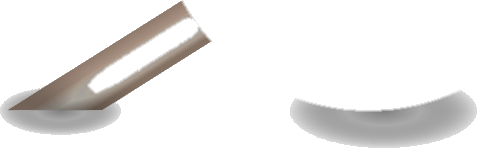
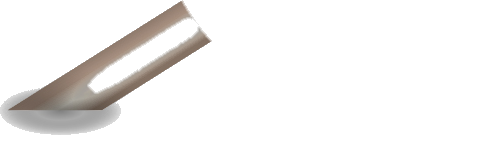
fixing pin7

Changed region(s): [[0.587, 0.6216, 1.0, 1.0]]

diff --git a/Tools/PinDebugger/Program.cs b/Tools/PinDebugger/Program.cs
@@ -1,4 +1,4 @@
-// Pin geometry debug annotator + shadow cleaner.
+// Pin geometry debug annotator + shadow cleaner + join finder.
 // Run from the project root.
 //
 // Annotate mode (default):
@@ -11,24 +11,34 @@
 //   each shaft PNG by keeping only the connected component that contains
 //   local_tip.  Output files: pin_XX_shaft_clean.png + pin_XX_shaft_lit_clean.png
 //   Copy them over the originals once you have verified the results.
+//
+// Find-join mode:
+//   dotnet run --project Tools\PinDebugger -- --find-join [partsDir [cleanedDir]]
+//   For each shaft, uses native_angle_deg to project all non-transparent pixels
+//   onto the shaft axis and reports the centroid of the farthest 3% as the
+//   suggested new local_join.  Use the cleaned versions if available.
+//   Outputs a JSON patch snippet ready to paste into pin_part_geometry.json.
 
 using System.Drawing;
 using System.Drawing.Drawing2D;
 using System.Drawing.Imaging;
+using System.Runtime.InteropServices;
 using System.Text;
 using System.Text.Json;
 
-bool cleanMode = args.Any(a => a == "--clean");
-var  posArgs   = args.Where(a => a != "--clean").ToArray();
+bool cleanMode    = args.Any(a => a == "--clean");
+bool findJoinMode = args.Any(a => a == "--find-join");
+var  posArgs      = args.Where(a => !a.StartsWith("--")).ToArray();
 
-var partsDir  = posArgs.Length > 0 ? posArgs[0] : Path.Combine("Images&Content", "Pins_v2", "parts");
-var outputDir = posArgs.Length > 1 ? posArgs[1]
-    : cleanMode
-        ? Path.Combine("Tools", "PinDebugger", "cleaned")
-        : Path.Combine("Tools", "PinDebugger", "output");
+var partsDir   = posArgs.Length > 0 ? posArgs[0] : Path.Combine("Images&Content", "Pins_v2", "parts");
+var cleanedDir = Path.Combine("Tools", "PinDebugger", "cleaned"); // always checked for cleaned versions
+var outputDir  = posArgs.Length > 1 ? posArgs[1]
+    : cleanMode    ? cleanedDir
+    : findJoinMode ? Path.Combine("Tools", "PinDebugger", "find-join")
+    : Path.Combine("Tools", "PinDebugger", "output_v2");
 
 Directory.CreateDirectory(outputDir);
-Console.WriteLine($"Mode   : {(cleanMode ? "clean (remove disconnected shadow islands)" : "annotate")}");
+Console.WriteLine($"Mode   : {(cleanMode ? "clean" : findJoinMode ? "find-join" : "annotate")}");
 Console.WriteLine($"Parts  : {partsDir}");
 Console.WriteLine($"Output : {outputDir}");
 Console.WriteLine();
@@ -43,15 +53,20 @@ foreach (var pinProp in doc.RootElement.EnumerateObject())
 {
     var pinId = pinProp.Name;
     var pin   = pinProp.Value;
-    Console.WriteLine($"  {pinId}");
 
     if (cleanMode)
     {
+        Console.WriteLine($"  {pinId}");
         CleanShaft(pin, pinId, partsDir, outputDir, litSuffix: false);
         CleanShaft(pin, pinId, partsDir, outputDir, litSuffix: true);
     }
+    else if (findJoinMode)
+    {
+        FindJoin(pin, pinId, partsDir, cleanedDir);
+    }
     else
     {
+        Console.WriteLine($"  {pinId}");
         AnnotateHead (pin, pinId, partsDir, outputDir);
         AnnotateShaft(pin, pinId, partsDir, outputDir, litSuffix: false);
         AnnotateShaft(pin, pinId, partsDir, outputDir, litSuffix: true);
@@ -177,6 +192,96 @@ static Bitmap KeepConnectedComponent(Bitmap src, int seedX, int seedY)
     System.Runtime.InteropServices.Marshal.Copy(outPx, 0, dstData.Scan0, outPx.Length);
     result.UnlockBits(dstData);
     return result;
+}
+
+// ── Find-join mode ────────────────────────────────────────────────────────────
+
+/// <summary>
+/// Uses native_angle_deg to project all non-transparent shaft pixels onto the
+/// shaft axis and reports the centroid of the farthest 3% as the suggested
+/// new local_join.  Uses the cleaned shaft version if available.
+/// </summary>
+static void FindJoin(JsonElement pin, string pinId, string partsDir, string cleanedDir)
+{
+    var baseFile = pin.GetProperty("shaft_file").GetString()!;
+    var shaft    = pin.GetProperty("shaft");
+    var tip      = ParsePoint(shaft.GetProperty("local_tip"));
+    var curJoin  = ParsePoint(shaft.GetProperty("local_join"));
+    var curNativeLen = shaft.GetProperty("native_length").GetDouble();
+    var angleDeg = shaft.GetProperty("native_angle_deg").GetDouble();
+
+    // Axis unit vector from native_angle_deg.
+    // Convention (matches GetAngleDegrees in the app): 0° = up (–Y), 90° = right (+X).
+    double rad  = angleDeg * Math.PI / 180.0;
+    float  axDx = (float)Math.Sin(rad);
+    float  axDy = (float)-Math.Cos(rad); // screen Y increases downward
+
+    // Prefer cleaned version; fall back to original in parts dir
+    var cleanedPath  = Path.Combine(cleanedDir, $"{pinId}_shaft_clean.png");
+    var originalPath = Path.Combine(partsDir, baseFile);
+    var srcPath      = File.Exists(cleanedPath) ? cleanedPath : originalPath;
+    var srcLabel     = File.Exists(cleanedPath) ? "cleaned" : "original";
+
+    if (!File.Exists(srcPath))
+    {
+        Console.WriteLine($"  {pinId}: !! missing {srcPath}");
+        return;
+    }
+
+    // Collect projections of all sufficiently-opaque pixels onto the axis
+    using var bmp    = new Bitmap(srcPath);
+    int w = bmp.Width, h = bmp.Height;
+    var rect    = new Rectangle(0, 0, w, h);
+    var bmpData = bmp.LockBits(rect, ImageLockMode.ReadOnly, PixelFormat.Format32bppArgb);
+    int stride  = bmpData.Stride;
+    var pixels  = new byte[stride * h];
+    Marshal.Copy(bmpData.Scan0, pixels, 0, pixels.Length);
+    bmp.UnlockBits(bmpData);
+
+    var projections = new List<(float proj, float x, float y)>(w * h / 4);
+    for (int py = 0; py < h; py++)
+    for (int px = 0; px < w; px++)
+    {
+        if (pixels[(py * stride) + (px * 4) + 3] < 10) continue;
+        float dx   = px - tip.X, dy = py - tip.Y;
+        float proj = dx * axDx + dy * axDy;
+        projections.Add((proj, px, py));
+    }
+
+    if (projections.Count == 0)
+    {
+        Console.WriteLine($"  {pinId}: no opaque pixels found");
+        return;
+    }
+
+    projections.Sort((a, b) => a.proj.CompareTo(b.proj));
+
+    // Centroid of the farthest 3% of pixels (by axis projection)
+    int startIdx = (int)(projections.Count * 0.97);
+    float sumX = 0, sumY = 0;
+    int   cnt  = 0;
+    for (int i = startIdx; i < projections.Count; i++)
+    {
+        sumX += projections[i].x;
+        sumY += projections[i].y;
+        cnt++;
+    }
+    float newJoinX = sumX / cnt;
+    float newJoinY = sumY / cnt;
+
+    // Euclidean distance tip → new join
+    float newLen    = (float)Math.Sqrt(Math.Pow(newJoinX - tip.X, 2) + Math.Pow(newJoinY - tip.Y, 2));
+    float curEucLen = (float)Math.Sqrt(Math.Pow(curJoin.X - tip.X, 2) + Math.Pow(curJoin.Y - tip.Y, 2));
+    bool  changed   = Math.Abs(newJoinX - curJoin.X) > 5 || Math.Abs(newJoinY - curJoin.Y) > 5;
+
+    Console.WriteLine($"  {pinId}  [{srcLabel}]  angle={angleDeg:F1}°  img={w}x{h}");
+    Console.WriteLine($"    current join : ({curJoin.X,7:F1}, {curJoin.Y,7:F1})  euclidean={curEucLen,6:F1}  json_native={curNativeLen:F1}");
+    Console.WriteLine($"    suggested    : ({newJoinX,7:F1}, {newJoinY,7:F1})  euclidean={newLen,6:F1}{(changed ? "  ← CHANGED" : "")}");
+    if (changed)
+    {
+        Console.WriteLine($"    JSON patch   : \"local_join\": {{ \"x\": {newJoinX:F1}, \"y\": {newJoinY:F1} }},  \"native_length\": {newLen:F1}");
+    }
+    Console.WriteLine();
 }
 
 // ── Annotate mode ─────────────────────────────────────────────────────────────
